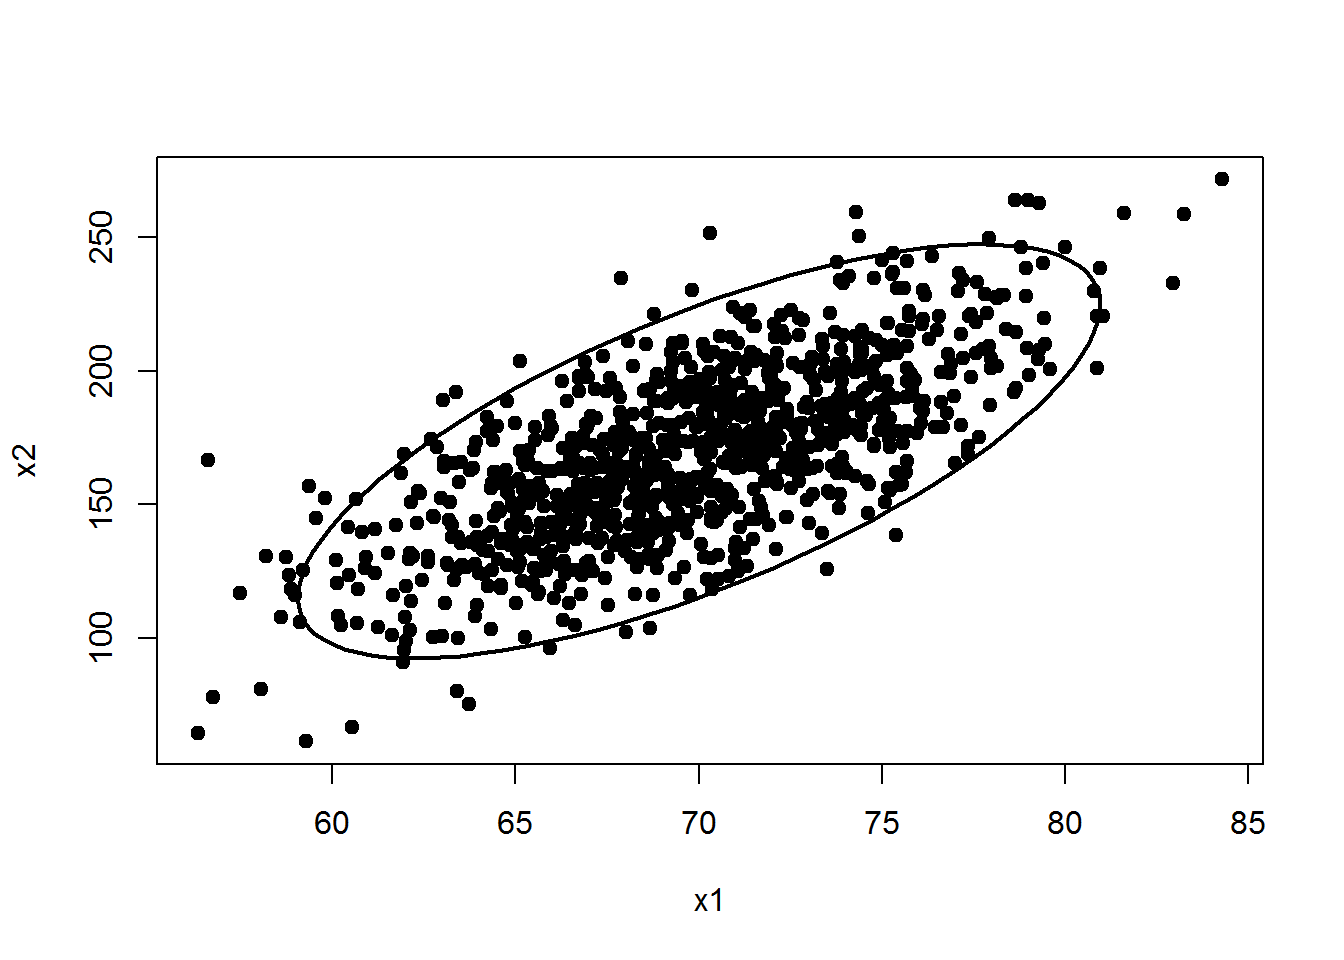
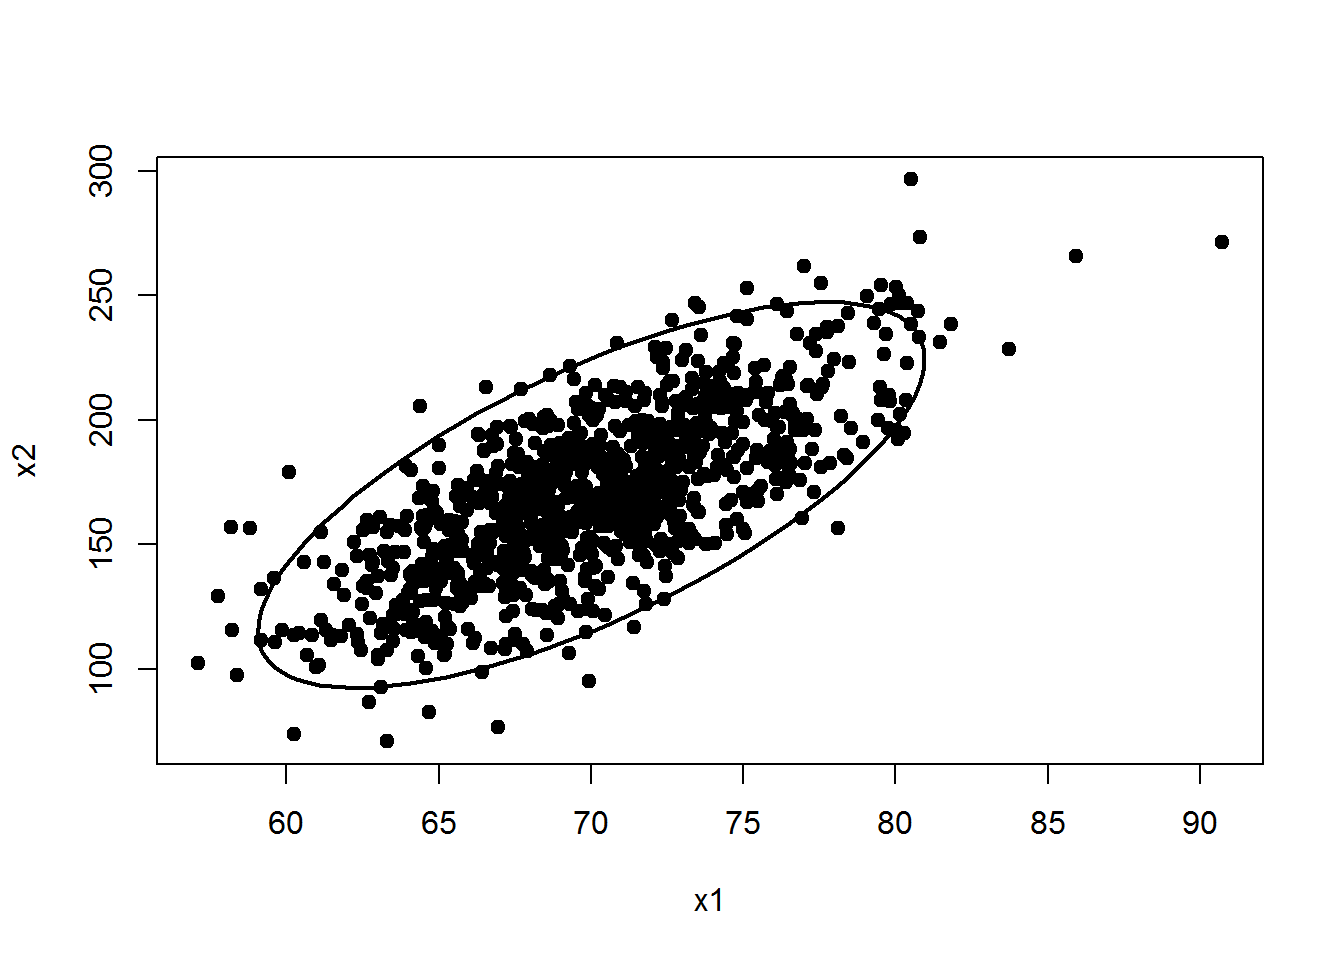
mejoras finales :fire:

diff --git a/Publicaciones/Multivariado/Elipse de confianza/Elipse_de_confianza.md b/Publicaciones/Multivariado/Elipse de confianza/Elipse_de_confianza.md
@@ -55,12 +55,12 @@ require(MASS)
 dt <- mvrnorm(n=1000, mu=centro, Sigma)
 head(dt)  # para ver las primeras lineas
 ##          [,1]     [,2]
-## [1,] 71.55371 170.3362
-## [2,] 70.76903 155.6034
-## [3,] 68.77607 221.2328
-## [4,] 66.55037 174.9372
-## [5,] 70.78160 185.2613
-## [6,] 68.15984 130.2109
+## [1,] 70.76193 159.7577
+## [2,] 68.50980 122.3227
+## [3,] 75.74504 207.2794
+## [4,] 69.23913 155.2680
+## [5,] 80.01348 196.0117
+## [6,] 72.50871 214.1097
 ```
 
 Para crear el diagrama de dispersión y superponer la elipse usamos el siguiente código.
@@ -77,10 +77,10 @@ Para determinar el porcentaje de puntos que están dentro de la elipse podemos u
 ``` r
 d <- mahalanobis(x=dt, center=centro, cov=Sigma)
 mean(d <= qchisq(p=0.95, df=2))
-## [1] 0.949
+## [1] 0.945
 ```
 
-Vemos que 94.9% de los puntos están dentro lo cual es un valor muy cercano al valor nominal de la elipse de 95%.
+Vemos que 94.5% de los puntos están dentro lo cual es un valor muy cercano al valor nominal de la elipse de 95%.
 
 Por último vamos a dibujar los puntos que están por dentro de la elipse con color azul y los que están por fuera con color rojo.
 
@@ -91,3 +91,6 @@ lines(p, lwd=2)
 ```
 
 <img src="MyFigs/Figure-elipse3-1.png" width="672" />
+
+<hr>
+<p align="center"> Fin </p>

diff --git a/Publicaciones/Multivariado/Elipse de confianza/doc_suffix.md b/Publicaciones/Multivariado/Elipse de confianza/doc_suffix.md
@@ -1,0 +1,2 @@
+<hr>
+<p align="center"> Fin </p>
